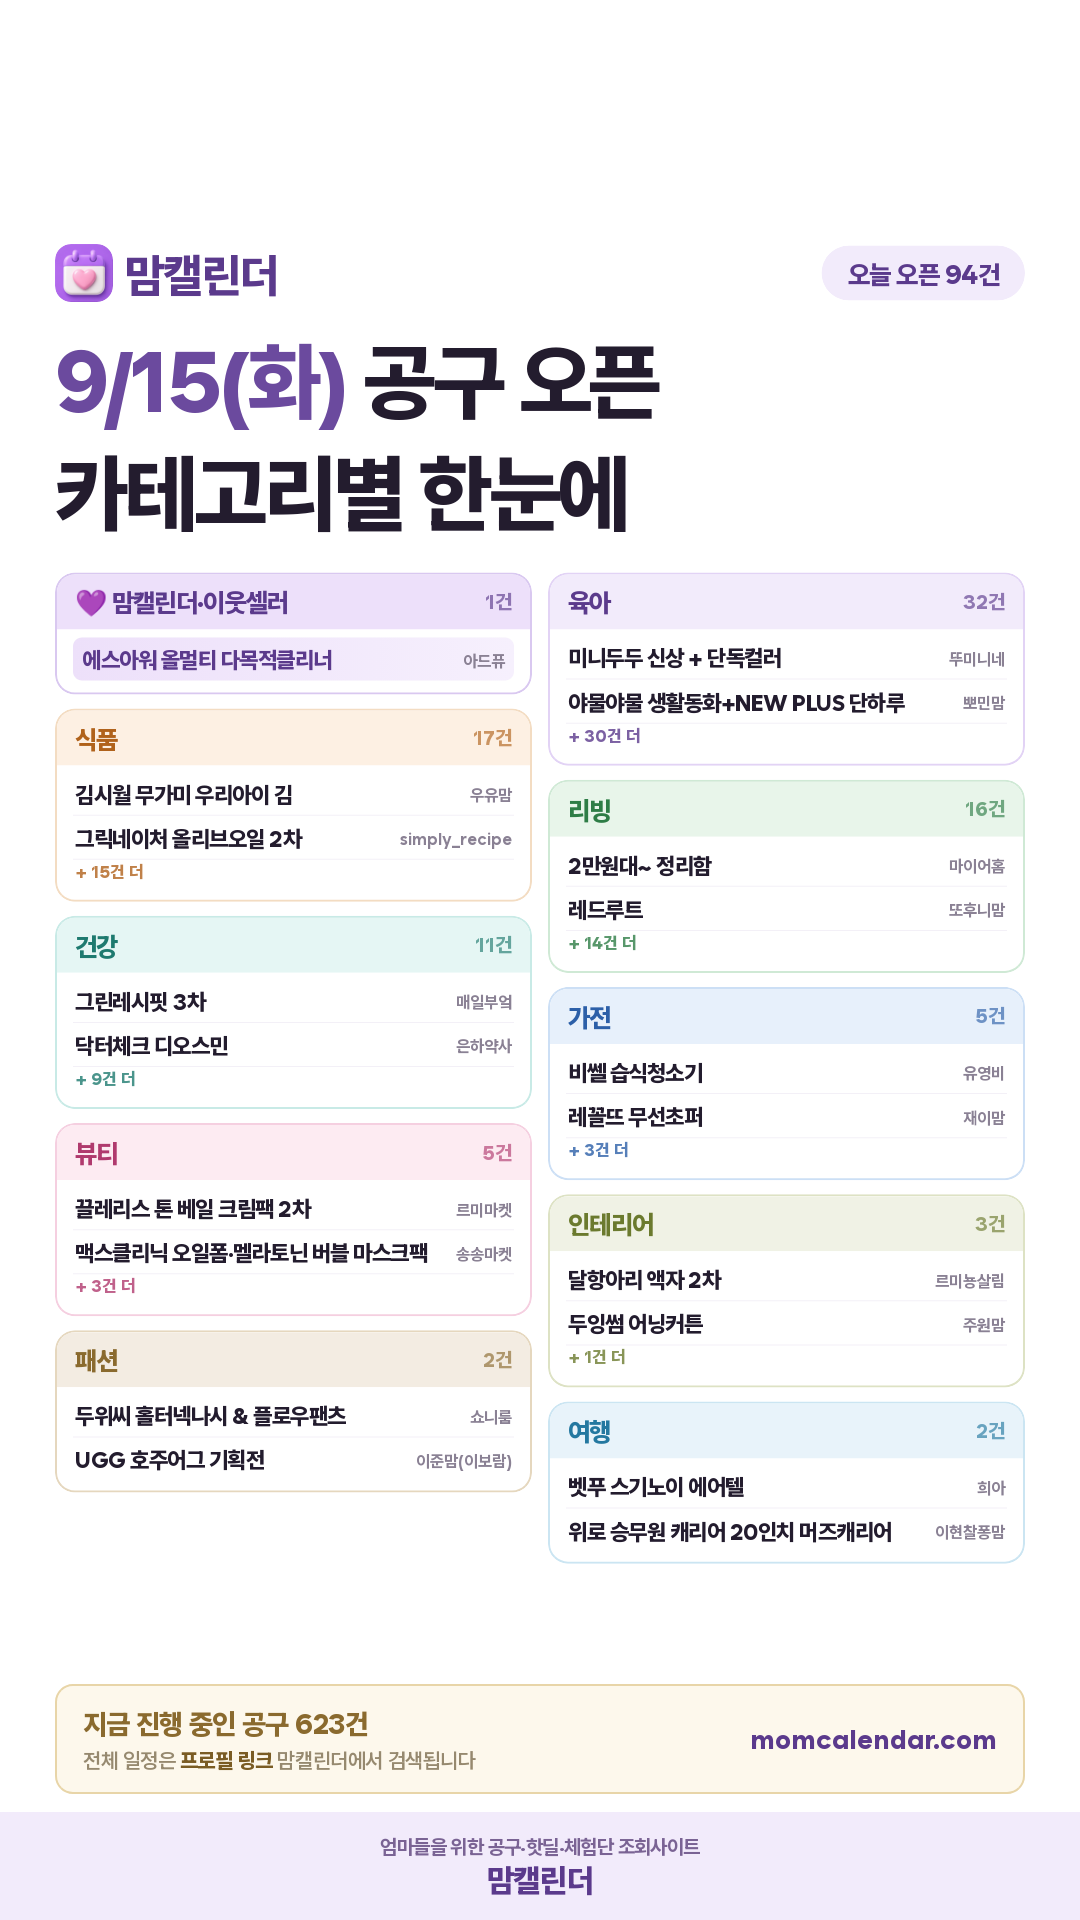
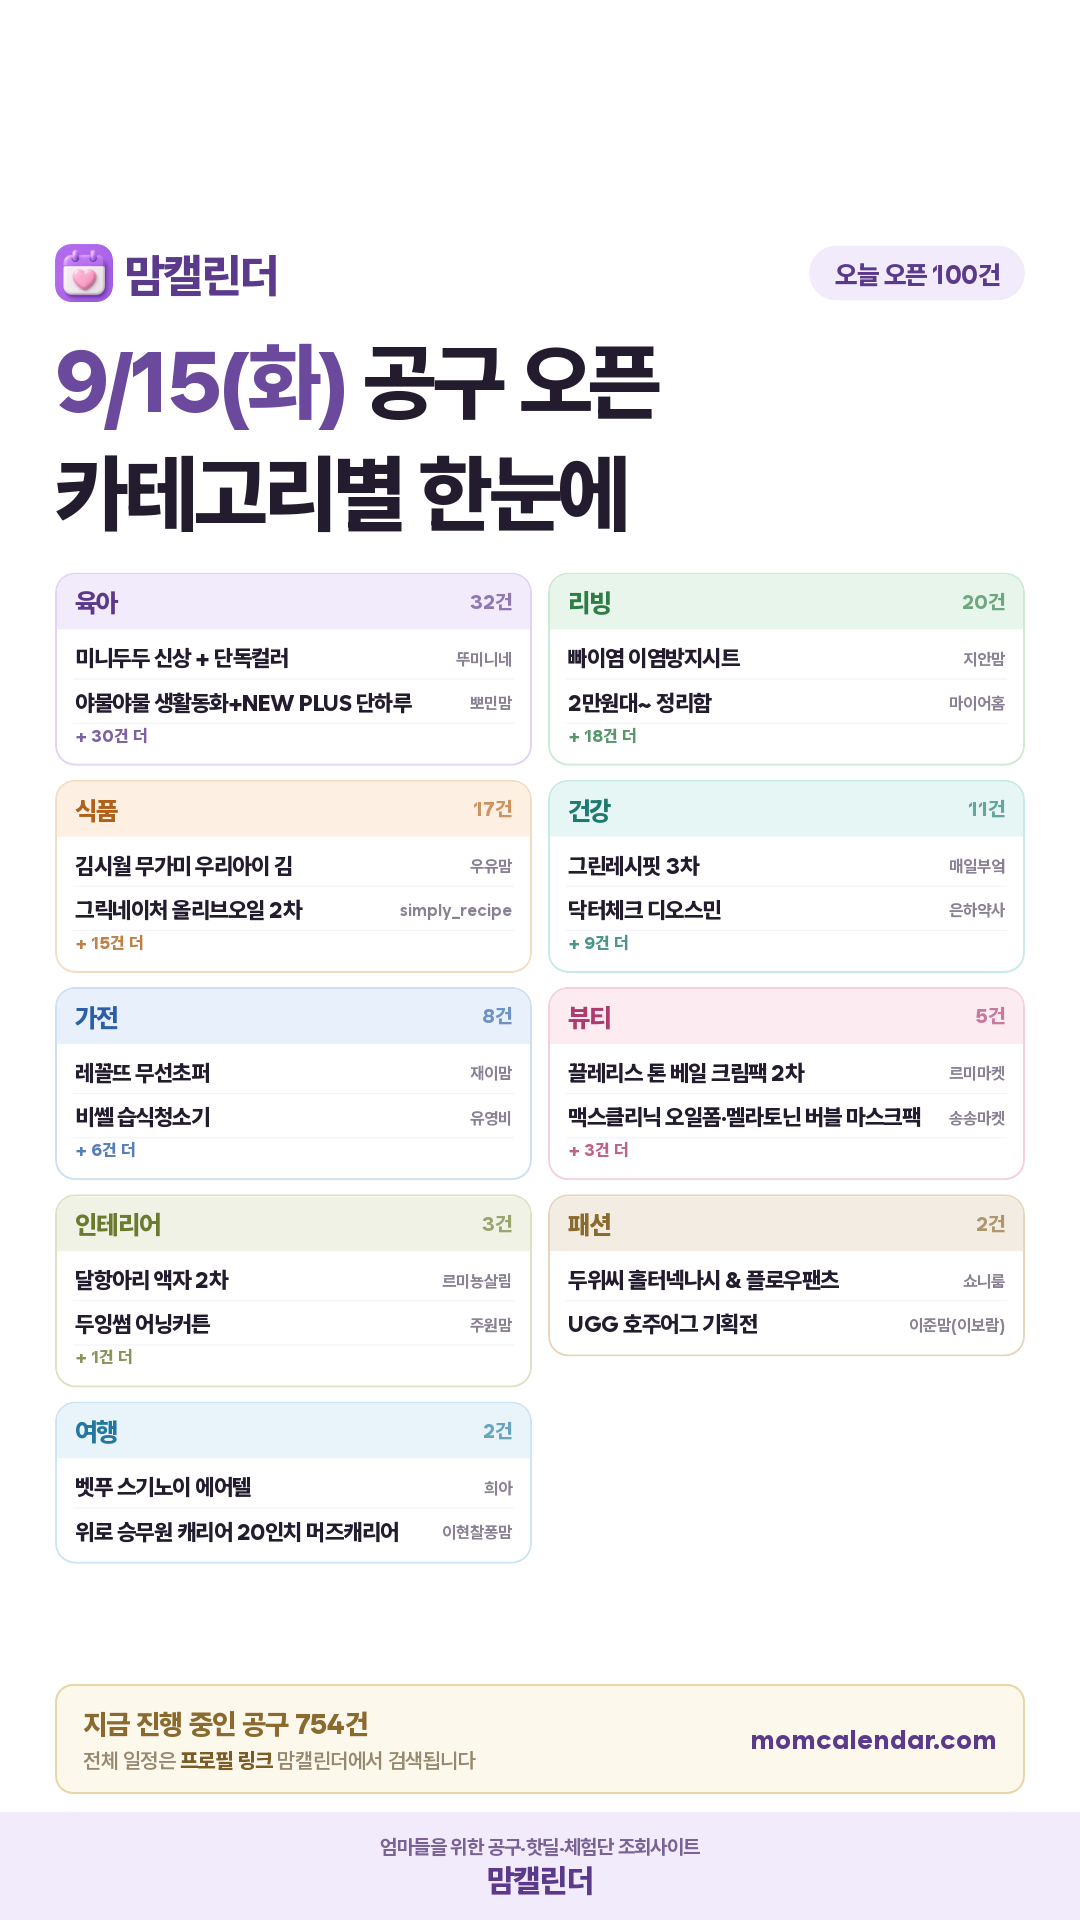
아침 인스타 카드 (2026-09-15)

diff --git a/daily/2026-09-15.html b/daily/2026-09-15.html
@@ -19,7 +19,7 @@ textarea{width:100%;height:260px;border:1px solid #E3DCEF;border-radius:10px;pad
 .todo p{font-size:12.5px;color:#6B6379;line-height:1.75;margin-top:6px}
 .todo a{color:#5B2E8C;font-weight:700}
 </style></head><body>
-<div class="hd"><div class="wrap"><h1>9월 15일(화) 인스타 카드</h1><p>카테고리 일정 · opens 94 · ends 64</p></div></div>
+<div class="hd"><div class="wrap"><h1>9월 15일(화) 인스타 카드</h1><p>카테고리 일정 · opens 100 · ends 68</p></div></div>
 <div class="wrap">
   
   <div class="card"><img src="./2026-09-15.png" alt="오늘 공구 카드"></div>
@@ -27,23 +27,31 @@ textarea{width:100%;height:260px;border:1px solid #E3DCEF;border-radius:10px;pad
   <div class="card">
     <textarea id="cap" readonly>오늘 뭐 열리나 궁금하셨죠? 카테고리별로 정리했어요
 
-9월 15일(화) 공구 오픈 94건 · 마감 64건
+9월 15일(화) 공구 오픈 100건 · 마감 68건
 
 ━━━━━━━━━━━━━━
-
-💜 맘캘린더·이웃셀러
-· 에스아워 올멀티 다목적클리너 — 아드퓨 @atelier.de.purete (~9/20)
 
 🧸 육아
 · 미니두두 신상 + 단독컬러 — 뚜미니네 (~9/18)
 · 야물야물 생활동화+NEW PLUS 단하루 — 뽀민맘 (~9/15)
-· 티지엠 쪽쪽이 치발기 — 라뷰베어 (~9/17)
 · 탁가온 유아식기 — 윤슬라멜맘 (~9/18)
+· 티지엠 쪽쪽이 치발기 — 라뷰베어 (~9/17)
 · 나와아기 사다리변기 — 솔맘 (~9/18)
 · 대발이 호기심 동화 — 워니럽마켓 (~9/21)
 · 바브레 변기모음전 — 또서안 (~9/18)
 · 세이펜 레인온펜 — 백서공주 (~9/18)
 …외 24건
+
+🏠 리빙
+· 빠이염 이염방지시트 — 지안맘 (~9/18)
+· 2만원대~ 정리함 — 마이어홈 (~9/20)
+· 레드루트 — 또후니맘 (~9/19)
+· 렌가드 — 마마홈 (~9/18)
+· 렌지메이트 2차 — 초코홈 (~9/18)
+· 리케 리빙템 7차 기획전 — 리리홈 (~9/21)
+· 메종프라질 멀티나이프 — 밥설공주 (~9/18)
+· 미모서울 도마 — 첨미살림 (~9/19)
+…외 12건
 
 🍱 식품
 · 김시월 무가미 우리아이 김 — 우유맘 (~9/19)
@@ -56,17 +64,6 @@ textarea{width:100%;height:260px;border:1px solid #E3DCEF;border-radius:10px;pad
 · 명희홈쿡 양념 LA갈비 단품/선물 — 명희홈쿡 (~9/20)
 …외 9건
 
-🏠 리빙
-· 2만원대~ 정리함 — 마이어홈 (~9/20)
-· 레드루트 — 또후니맘 (~9/19)
-· 렌지메이트 2차 — 초코홈 (~9/18)
-· 리케 리빙템 7차 기획전 — 리리홈 (~9/21)
-· 미모서울 도마 — 첨미살림 (~9/19)
-· 미스티파이 뽑아쓰는 항균 행주 — 째째홈 (~9/18)
-· 바스 탈취제 — 개엄마 (~9/18)
-· 바첸 쿠커블웨어 3차 — 윤우가자라는집 (~9/18)
-…외 8건
-
 💊 건강
 · 그린레시핏 3차 — 매일부엌 (~9/18)
 · 닥터체크 디오스민 — 은하약사 (~9/23)
@@ -75,15 +72,17 @@ textarea{width:100%;height:260px;border:1px solid #E3DCEF;border-radius:10px;pad
 · 엘레나 여성 유산균 — 러브미우 (~9/20)
 · 이뮨킹 4차 — 약파더 (~9/21)
 · 저스트글로우 베르베린 — 삐약약사 (~9/21)
-· 케이투미네랄부스터 — 딸기약사 (~9/21)
-…외 3건
+…외 4건
 
 🔌 가전
-· 비쎌 습식청소기 — 유영비 (~9/18)
 · 레꼴뜨 무선초퍼 — 재이맘 (~9/18)
+· 비쎌 습식청소기 — 유영비 (~9/18)
+· 닌자 푸디 스마트 에어그릴 에어프라이어 — 포유홈 (~9/18)
+· 데코아르 감성 테크 3종으로 — 주부콩 (~9/22)
 · 메쉬넵 네블라이저 — 애프리 (~9/18)
 · 샤크 1년 후 — 유유즈 하우스 (~9/18)
-· AMT 프라이어·멀티쿠커 — 맘이가요 (~9/18)
+· 필립스 전자동 커피머신 바리스티나 — 홈앤홈 (~9/18)
+…외 1건
 
 💄 뷰티
 · 끌레리스 톤 베일 크림팩 2차 — 르미마켓 (~9/18)
@@ -106,14 +105,14 @@ textarea{width:100%;height:260px;border:1px solid #E3DCEF;border-radius:10px;pad
 · 위로 여는 파일럿 승무원 캐리어 20인치 머즈캐리어 — 이현찰퐁맘 (~9/18)
 
 ⏰ 오늘 마감
+· [명절] 에스파뇰라 오일스프레이 — 맘캘린더 @momcal_
 · 퍼기 이유식기 모음전 — 로로맘
 · 아토케어 침구청소기 — 이현맘
 · 야물야물 생활동화+NEW PLUS 단하루 — 뽀민맘
 · 블루래빗 골라담기 — 뚝딱맘
-· 똑서 똑똑한 독서습관 — 소민맘
-· 머즈캐리어 4차 — 미르홈
-· 미틀리 비프칩 2차 — 야미마미
-…외 57건
+· 프레벨롱 요거트 — 미니똘
+· 코즈 가을신상 상하의·고쟁이바지 — 치즈맘
+…외 61건
 
 
 ━━━━━━━━━━━━━━
@@ -139,7 +138,7 @@ textarea{width:100%;height:260px;border:1px solid #E3DCEF;border-radius:10px;pad
   </div>
   <div class="card">
     <div class="meta" style="margin:0 0 8px;font-weight:800;color:#5B2E8C">네이버 블로그용 (blog.naver.com/momcal) — 수정해서 쓰셔도 돼요</div>
-    <textarea id="btitle" style="height:54px">9월 15일(화) 육아템 인스타 공구일정 | AMT 프라이어·레꼴뜨 무선초퍼·메쉬넵·비쎌 공구 하는 곳</textarea>
+    <textarea id="btitle" style="height:54px">9월 15일(화) 육아템 인스타 공구일정 | AMT 프라이어·닌자 푸디·데코아르·레꼴뜨 공구 하는 곳</textarea>
     <button class="btn btn2" onclick="cp('btitle','블로그 제목')">블로그 제목 복사</button>
     <textarea id="bbody" style="margin-top:9px">
 
@@ -166,10 +165,10 @@ https://open.kakao.com/o/gr2kJhCh
 
 ─────────────
 
-9월 15일(화) 공구 일정이에요. 오늘 오픈하는 106건을 한 번에 모았어요.
-마감이 오늘인 공구도 77건 있어요. 담아두셨다면 서두르셔야 해요.
+9월 15일(화) 공구 일정이에요. 오늘 오픈하는 112건을 한 번에 모았어요.
+마감이 오늘인 공구도 82건 있어요. 담아두셨다면 서두르셔야 해요.
 
-■ 오늘 시작하는 공구 106건
+■ 오늘 시작하는 공구 112건
 
 [육아]
 · 꿈꾸는달팽이 노래하는 가방 — 서점맘 (~9/20 마감)
@@ -216,8 +215,10 @@ https://open.kakao.com/o/gr2kJhCh
 · 2만원대~ 정리함 — 마이어홈 (~9/20 마감)
 · 디어커스 오발레·대나무 휴지 — 마이어홈 (~9/20 마감)
 · 레드루트 — 또후니맘 (~9/19 마감)
+· 렌가드 — 마마홈 (~9/18 마감)
 · 렌지메이트 2차 — 초코홈 (~9/18 마감)
 · 리케 리빙템 7차 기획전 — 리리홈 (~9/21 마감)
+· 메종프라질 멀티나이프 — 밥설공주 (~9/18 마감)
 · 미모서울 도마 — 첨미살림 (~9/19 마감)
 · 미스티파이 뽑아쓰는 항균 행주 — 째째홈 (~9/18 마감)
 · 바스 탈취제 — 개엄마 (~9/18 마감)
@@ -225,7 +226,8 @@ https://open.kakao.com/o/gr2kJhCh
 · 빠이염 이염방지시트 — 지안맘 (~9/18 마감)
 · 실버스타 무연마 316 찜기 — 살림구조대 (~9/21 마감)
 · 에버스텐 캐니스터·믹싱볼 7차 — 햇림 (~9/20 마감)
-· 에스아워 올멀티 다목적클리너 — 아드퓨 (~9/20 마감)
+· 올스텐 스윙 빨래바구니 — 지니하우스 (~9/22 마감)
+· 철제 스탠드 행거 — 라라홈 (~9/18 마감)
 · 코알라 모기패치 — 비나맘 (~9/18 마감)
 · 코에르 욕실매트 — 모찌맘 (~9/18 마감)
 · 콕스타 스텐밧드 — 홈그리나 (~9/18 마감)
@@ -277,10 +279,13 @@ https://open.kakao.com/o/gr2kJhCh
 
 [가전]
 · AMT 프라이어·멀티쿠커 — 맘이가요 (~9/18 마감)
+· 닌자 푸디 스마트 에어그릴 에어프라이어 — 포유홈 (~9/18 마감)
+· 데코아르 감성 테크 3종으로 — 주부콩 (~9/22 마감)
 · 레꼴뜨 무선초퍼 — 재이맘 (~9/18 마감)
 · 메쉬넵 네블라이저 — 애프리 (~9/18 마감)
 · 비쎌 습식청소기 — 유영비 (~9/18 마감)
 · 샤크 1년 후 — 유유즈 하우스 (~9/18 마감)
+· 필립스 전자동 커피머신 바리스티나 — 홈앤홈 (~9/18 마감)
 
 [패션]
 · UGG 호주어그 기획전 — 이준맘(이보람) (~9/18 마감)
@@ -295,11 +300,13 @@ https://open.kakao.com/o/gr2kJhCh
 · 두잉썸 어닝커튼 — 주원맘 (~9/18 마감)
 · 버미큘라 테이블웨어 — 류니 (~9/18 마감)
 
-■ 오늘 마감하는 공구 77건
+■ 오늘 마감하는 공구 82건
+· [명절] 에스파뇰라 오일스프레이 — 맘캘린더
 · 1차완판 산도 올리브오일 &amp; 선물세트 — 뎅쿡
 · YDY SLB유산균 — 명훈약사
 · 견묘당 맑은쑥 스프레이샴푸 — 견생대박태안이네
 · 구드래곤 완간 — 위쓰담북
+· 낫또 네임스티커 &amp; 키링 — 월간서숲
 · 녹티 톤업크림 선크림 — 선선부부하우스
 · 데일리체크 항균 워싱 차렵이불 — 지니하우스
 · 똑서 똑똑한 독서습관 — 소민맘
@@ -345,6 +352,7 @@ https://open.kakao.com/o/gr2kJhCh
 · 아토케어 침구청소기 — 이현맘
 · 알텐바흐 저압냄비 — 재이맘
 · 야물야물 생활동화+NEW PLUS 단하루 — 뽀민맘
+· 얼라맘마 김치 &amp; 소스류 — 또니맘
 · 올리브오일 — 젤로핏
 · 올인원 세탁바구니 ver2 — 마마홈
 · 요미몬 멀티보드 — 누누맘
@@ -352,6 +360,7 @@ https://open.kakao.com/o/gr2kJhCh
 · 일프로 고쟁이 &amp; 실내복 — 워니네
 · 임신준비 베스트 커큐민부스터 — 남약사
 · 잼바라 어린이 현미경 — 마이리틀클래스
+· 접이식 3단 매트 — 하봄
 · 짐샌더슨 롤링카트 — 트민녀
 · 첨가물0 엑스트라버진, 워터 참치 — 썬이맘
 · 초링 시리즈 — 송엘라
@@ -372,6 +381,7 @@ https://open.kakao.com/o/gr2kJhCh
 · 프레벨롱 요거트 — 미니똘
 · 필리빗 테이블웨어 4차 — sunday_rang
 · 하브홀릭 동결건조 오리목뼈 — 부끄
+· 휴대용 메쉬 네블라이저 — 축복맘
 · 휴대용 물티슈 12팩 — 채쓰맘
 
 ■ 오늘의 브랜드: AMT
@@ -381,7 +391,7 @@ https://open.kakao.com/o/gr2kJhCh
 
 ※ 정확한 구성·가격은 셀러 공지 기준이에요. 이 글은 일정 모음이라 참고용으로 봐주세요.
 
-#공구일정 #인스타공구 #인스타공구일정 #공동구매 #오늘의공구 #육아공구 #육아템 #공구모음 #AMT공구 #레꼴뜨공구 #메쉬넵공구 #비쎌공구 #샤크공구 #DK2공구 #그린레시핏공구 #닥터체크공구</textarea>
+#공구일정 #인스타공구 #인스타공구일정 #공동구매 #오늘의공구 #육아공구 #육아템 #공구모음 #AMT공구 #닌자공구 #데코아르공구 #레꼴뜨공구 #메쉬넵공구 #비쎌공구 #샤크공구 #필립스공구</textarea>
     <button class="btn" onclick="cp('bbody','블로그 본문 전체')">블로그 본문 전체 복사 (태그 포함)</button>
     <div class="meta">순서: 사진 저장 → 블로그 앱 글쓰기 → 제목 붙여넣기 → 본문 붙여넣기 → 본문 맨 위에 사진 추가 → 발행. 끝의 #태그들은 자동으로 태그가 돼요</div>
   </div>

diff --git a/daily/index.html b/daily/index.html
@@ -1,1 +1,1 @@
-<!DOCTYPE html><meta charset="UTF-8"><meta http-equiv="refresh" content="0;url=./2026-09-14.html">
+<!DOCTYPE html><meta charset="UTF-8"><meta http-equiv="refresh" content="0;url=./2026-09-15.html">
